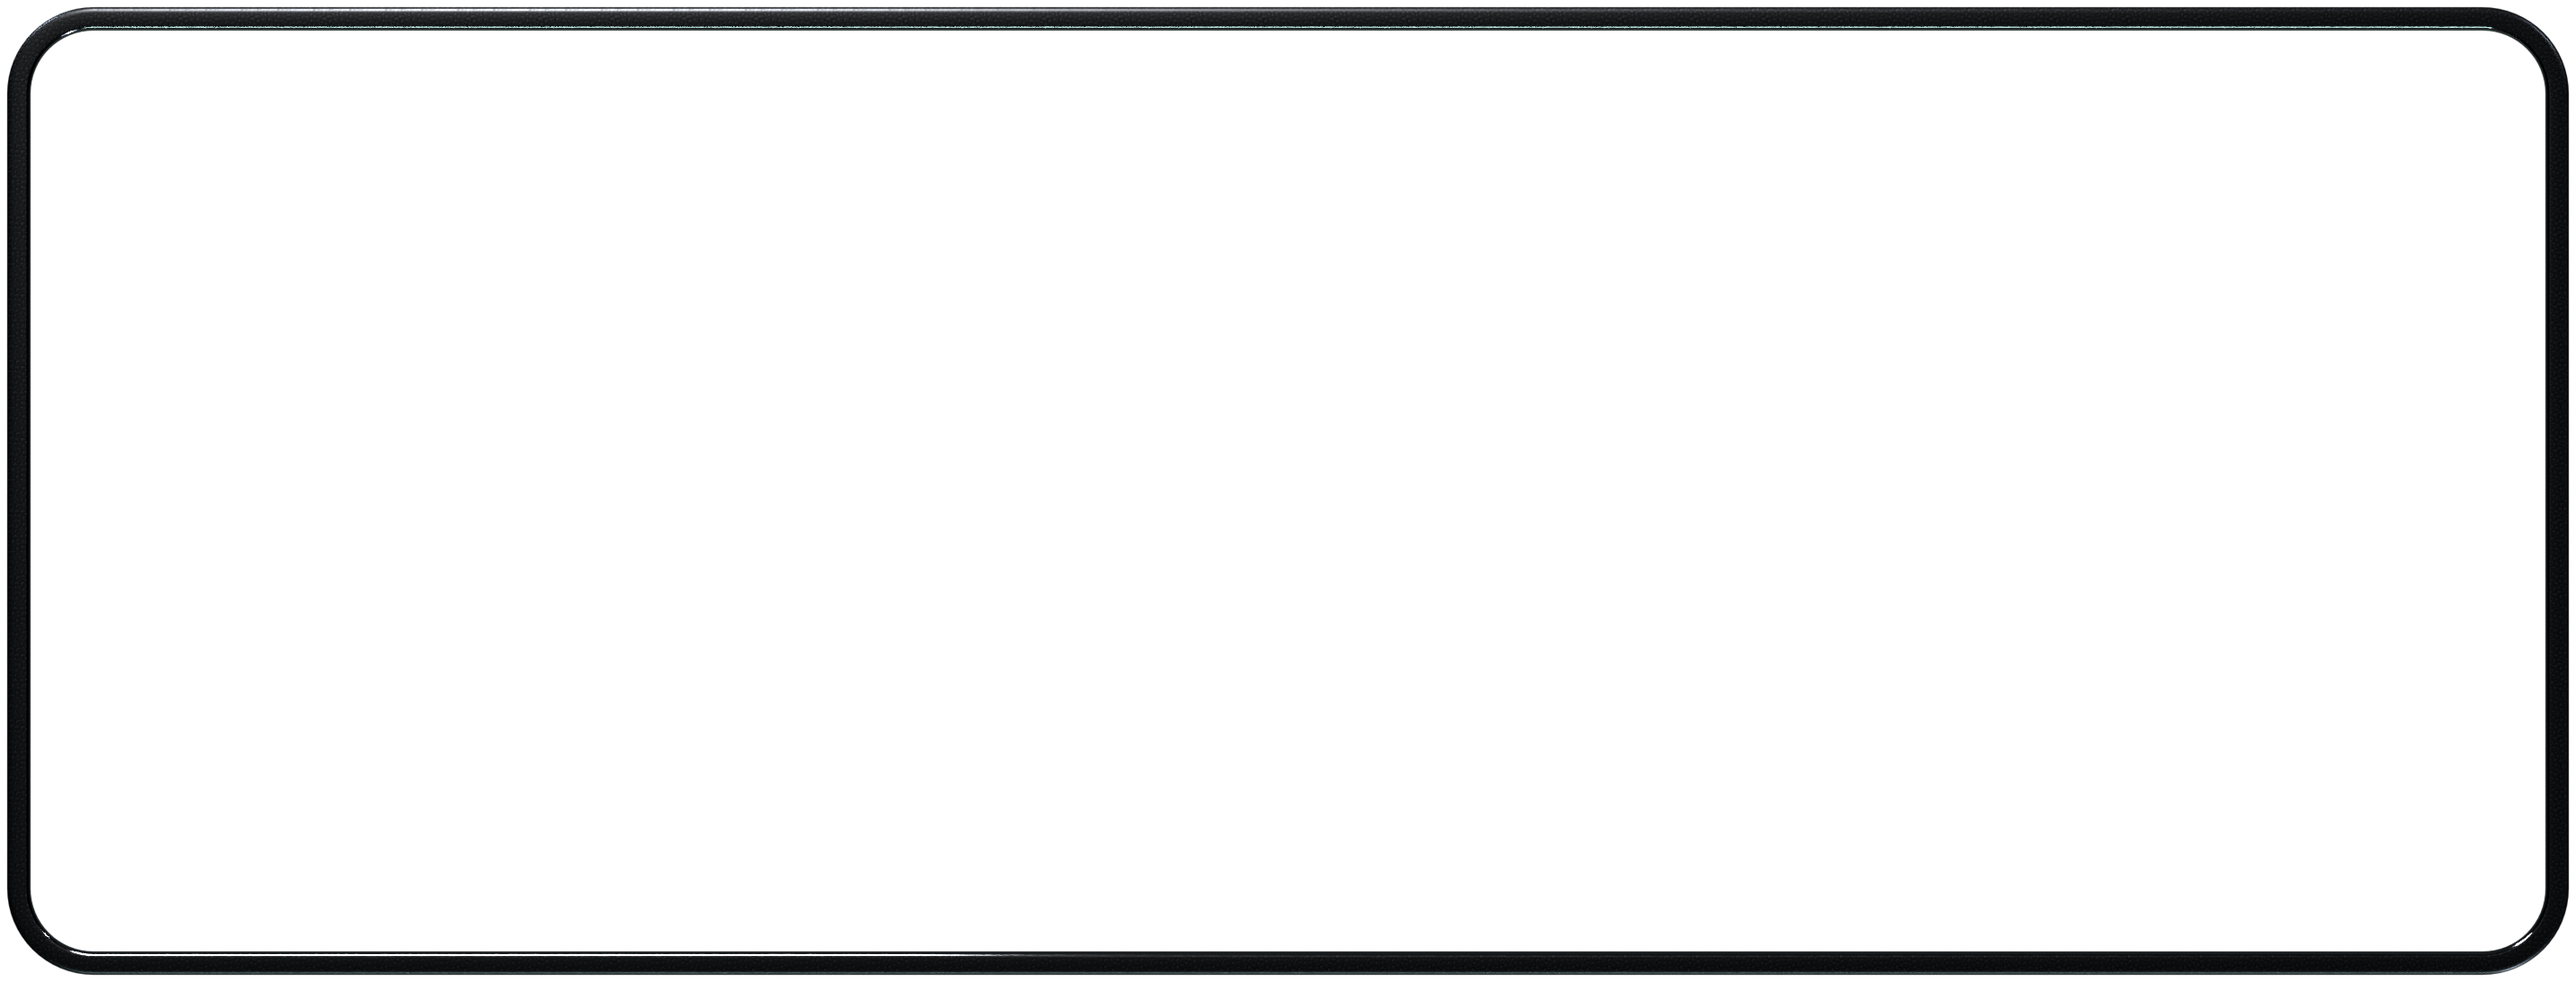
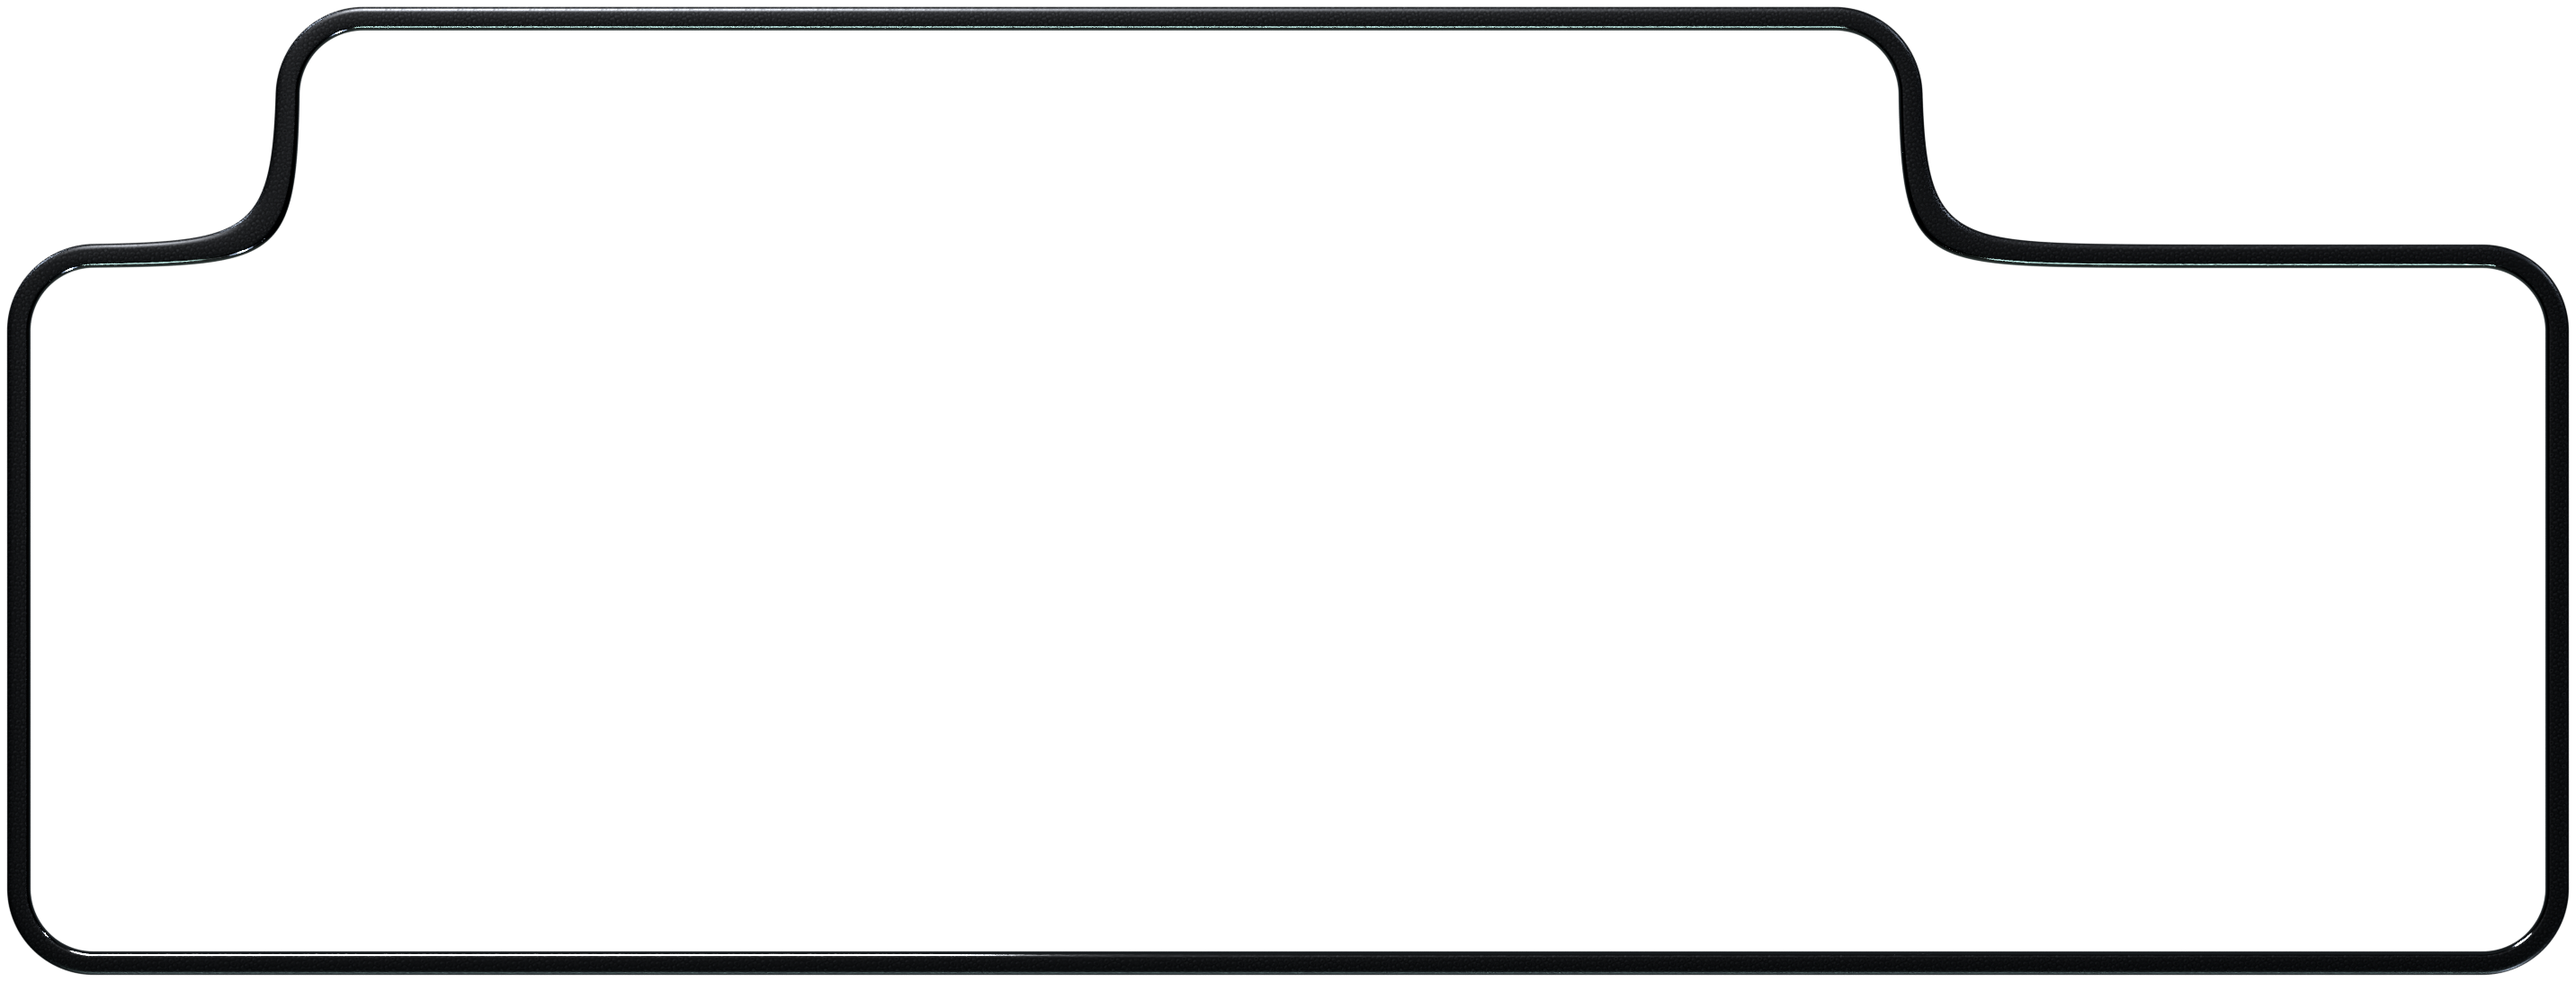
RetroCyber: local Blender re-render of the surround for the stepped panel outline
The four surround renders (cockpit 2864x1092, hood 3520x772, lights -160 and -110 degrees) from
e093d1b's recipe, built on the local card at TJX's choice. The PNGs are right; the four rows the
build wrote into this folder's ASSETS.md carry the Size, Bytes and strip_drop/hump values in each
other's places (the argument order of the row's format! in tools/asset-forge/src/recipes/retro_cyber.rs),
so the next build after that fix rewrites them.

Changed region(s): [[0.7147, 0.0, 1.0, 0.3425], [0.0, 0.0, 0.3108, 0.3114], [0.3418, 0.0, 0.3729, 0.0311]]

diff --git a/assets/clusters/retro_cyber/ASSETS.md b/assets/clusters/retro_cyber/ASSETS.md
@@ -5,7 +5,7 @@ Built by `cargo run --release -p asset-forge -- build --set retro_cyber` (recipe
 | File | Kind | Size | Bytes | Generator (recipe + seed) | Licence | Used for |
 |---|---|---|---|---|---|---|
 | `phosphor_grain.png` | grey modulation, tileable | 1024x1024 | 214 KB | comfyui:workflows/sdxl_plate.json (SDXL base 1.0 + 4x-UltraSharp, dpmpp_2m karras 32 steps cfg 6.5) seed=1906 prompt="extreme macro photograph of the lit phosphor coating of a vacuum fluorescent display segment, fine powdery granular phosphor grain, soft mottled uneven glow, flat even lighting, monochrome grey, seamless surface texture, ultra detailed" → grey, seamless, high-pass, 0.88–1 display level, tile seam score 1.18 | CreativeML Open RAIL++-M output (SDXL); MIT (asset-forge) | tinted fill of every lit bar, pod and segment |
-| `surround_cockpit_l160.png` | colour, straight alpha | 2864x1092 | 645 KB | blender:retro_cyber::HOUSING view=cockpit lens=1400x514 r=36 ring=12 light=-160° scale=2 samples=96 seed=1907; surround grain comfyui:workflows/sdxl_plate.json seed=2708 prompt="extreme macro photograph of bead blasted anodised graphite aluminium, fine uniform satin grain, tiny sparkling pits, flat even lighting, monochrome grey, seamless surface texture, ultra detailed" → grey, seamless, high-pass, tile seam score 1.01 | MIT (asset-forge); grain CreativeML Open RAIL++-M output (SDXL) | the surround; blended with the other light by lateral G |
-| `surround_cockpit_l110.png` | colour, straight alpha | 2864x1092 | 607 KB | blender:retro_cyber::HOUSING view=cockpit lens=1400x514 r=36 ring=12 light=-110° scale=2 samples=96 seed=1907; surround grain comfyui:workflows/sdxl_plate.json seed=2708 prompt="extreme macro photograph of bead blasted anodised graphite aluminium, fine uniform satin grain, tiny sparkling pits, flat even lighting, monochrome grey, seamless surface texture, ultra detailed" → grey, seamless, high-pass, tile seam score 1.01 | MIT (asset-forge); grain CreativeML Open RAIL++-M output (SDXL) | the surround; blended with the other light by lateral G |
-| `surround_hood_l160.png` | colour, straight alpha | 3520x772 | 534 KB | blender:retro_cyber::HOUSING view=hood lens=1732x358 r=30 ring=10 light=-160° scale=2 samples=96 seed=1907; surround grain comfyui:workflows/sdxl_plate.json seed=2708 prompt="extreme macro photograph of bead blasted anodised graphite aluminium, fine uniform satin grain, tiny sparkling pits, flat even lighting, monochrome grey, seamless surface texture, ultra detailed" → grey, seamless, high-pass, tile seam score 1.01 | MIT (asset-forge); grain CreativeML Open RAIL++-M output (SDXL) | the surround; blended with the other light by lateral G |
-| `surround_hood_l110.png` | colour, straight alpha | 3520x772 | 510 KB | blender:retro_cyber::HOUSING view=hood lens=1732x358 r=30 ring=10 light=-110° scale=2 samples=96 seed=1907; surround grain comfyui:workflows/sdxl_plate.json seed=2708 prompt="extreme macro photograph of bead blasted anodised graphite aluminium, fine uniform satin grain, tiny sparkling pits, flat even lighting, monochrome grey, seamless surface texture, ultra detailed" → grey, seamless, high-pass, tile seam score 1.01 | MIT (asset-forge); grain CreativeML Open RAIL++-M output (SDXL) | the surround; blended with the other light by lateral G |
+| `surround_cockpit_l160.png` | colour, straight alpha | 132x-550 | 340 KB | blender:retro_cyber::HOUSING view=cockpit lens=1400x514 r=36 strip_drop=2864 hump=1092..662 blend=24 ring=12 light=-160° scale=2 samples=96 seed=1907; surround grain comfyui:workflows/sdxl_plate.json seed=2708 prompt="extreme macro photograph of bead blasted anodised graphite aluminium, fine uniform satin grain, tiny sparkling pits, flat even lighting, monochrome grey, seamless surface texture, ultra detailed" → grey, seamless, high-pass, tile seam score 1.01 | MIT (asset-forge); grain CreativeML Open RAIL++-M output (SDXL) | the surround; blended with the other light by lateral G |
+| `surround_cockpit_l110.png` | colour, straight alpha | 132x-550 | 340 KB | blender:retro_cyber::HOUSING view=cockpit lens=1400x514 r=36 strip_drop=2864 hump=1092..627 blend=24 ring=12 light=-110° scale=2 samples=96 seed=1907; surround grain comfyui:workflows/sdxl_plate.json seed=2708 prompt="extreme macro photograph of bead blasted anodised graphite aluminium, fine uniform satin grain, tiny sparkling pits, flat even lighting, monochrome grey, seamless surface texture, ultra detailed" → grey, seamless, high-pass, tile seam score 1.01 | MIT (asset-forge); grain CreativeML Open RAIL++-M output (SDXL) | the surround; blended with the other light by lateral G |
+| `surround_hood_l160.png` | colour, straight alpha | 68x-722 | 442 KB | blender:retro_cyber::HOUSING view=hood lens=1732x358 r=30 strip_drop=3520 hump=772..554 blend=24 ring=10 light=-160° scale=2 samples=96 seed=1907; surround grain comfyui:workflows/sdxl_plate.json seed=2708 prompt="extreme macro photograph of bead blasted anodised graphite aluminium, fine uniform satin grain, tiny sparkling pits, flat even lighting, monochrome grey, seamless surface texture, ultra detailed" → grey, seamless, high-pass, tile seam score 1.01 | MIT (asset-forge); grain CreativeML Open RAIL++-M output (SDXL) | the surround; blended with the other light by lateral G |
+| `surround_hood_l110.png` | colour, straight alpha | 68x-722 | 442 KB | blender:retro_cyber::HOUSING view=hood lens=1732x358 r=30 strip_drop=3520 hump=772..532 blend=24 ring=10 light=-110° scale=2 samples=96 seed=1907; surround grain comfyui:workflows/sdxl_plate.json seed=2708 prompt="extreme macro photograph of bead blasted anodised graphite aluminium, fine uniform satin grain, tiny sparkling pits, flat even lighting, monochrome grey, seamless surface texture, ultra detailed" → grey, seamless, high-pass, tile seam score 1.01 | MIT (asset-forge); grain CreativeML Open RAIL++-M output (SDXL) | the surround; blended with the other light by lateral G |
